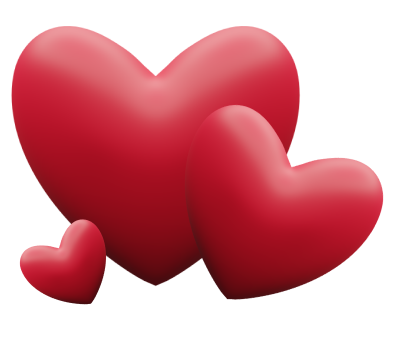
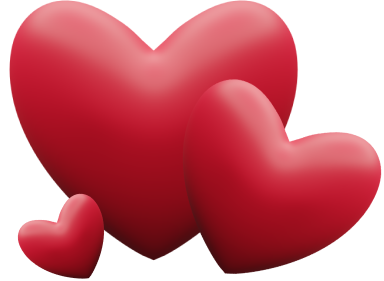
init

diff --git a/scss/style.scss b/scss/style.scss
@@ -233,20 +233,18 @@ h5 {
 
 .seller {
 	margin-top: 170px;
-
+	
 	& .container {
 		position: relative;
 		z-index: 1;
 	}
 }
-
 #hearts {
 	position: absolute;
-	right: -140px;
-	top: -10px;
+	right: -25px;
+	top: 0;
 	z-index: 0;
 }
-
 .seller__desc {
 	font-weight: 500;
 	font-size: 36px;
@@ -254,12 +252,12 @@ h5 {
 	letter-spacing: -1px;
 	margin: 32px 0;
 }
-
 .seller__block {
 	display: flex;
 	margin: 36px 0;
 	position: relative;
 	z-index: 2;
+	width: 100%;
 }
 
 .seller__item {

diff --git a/css/style.css b/css/style.css
@@ -305,8 +305,8 @@ h5 {
 
 #hearts {
   position: absolute;
-  right: -140px;
-  top: -10px;
+  right: -25px;
+  top: 0;
   z-index: 0;
 }
 
@@ -325,6 +325,7 @@ h5 {
   margin: 36px 0;
   position: relative;
   z-index: 2;
+  width: 100%;
 }
 
 .seller__item {
